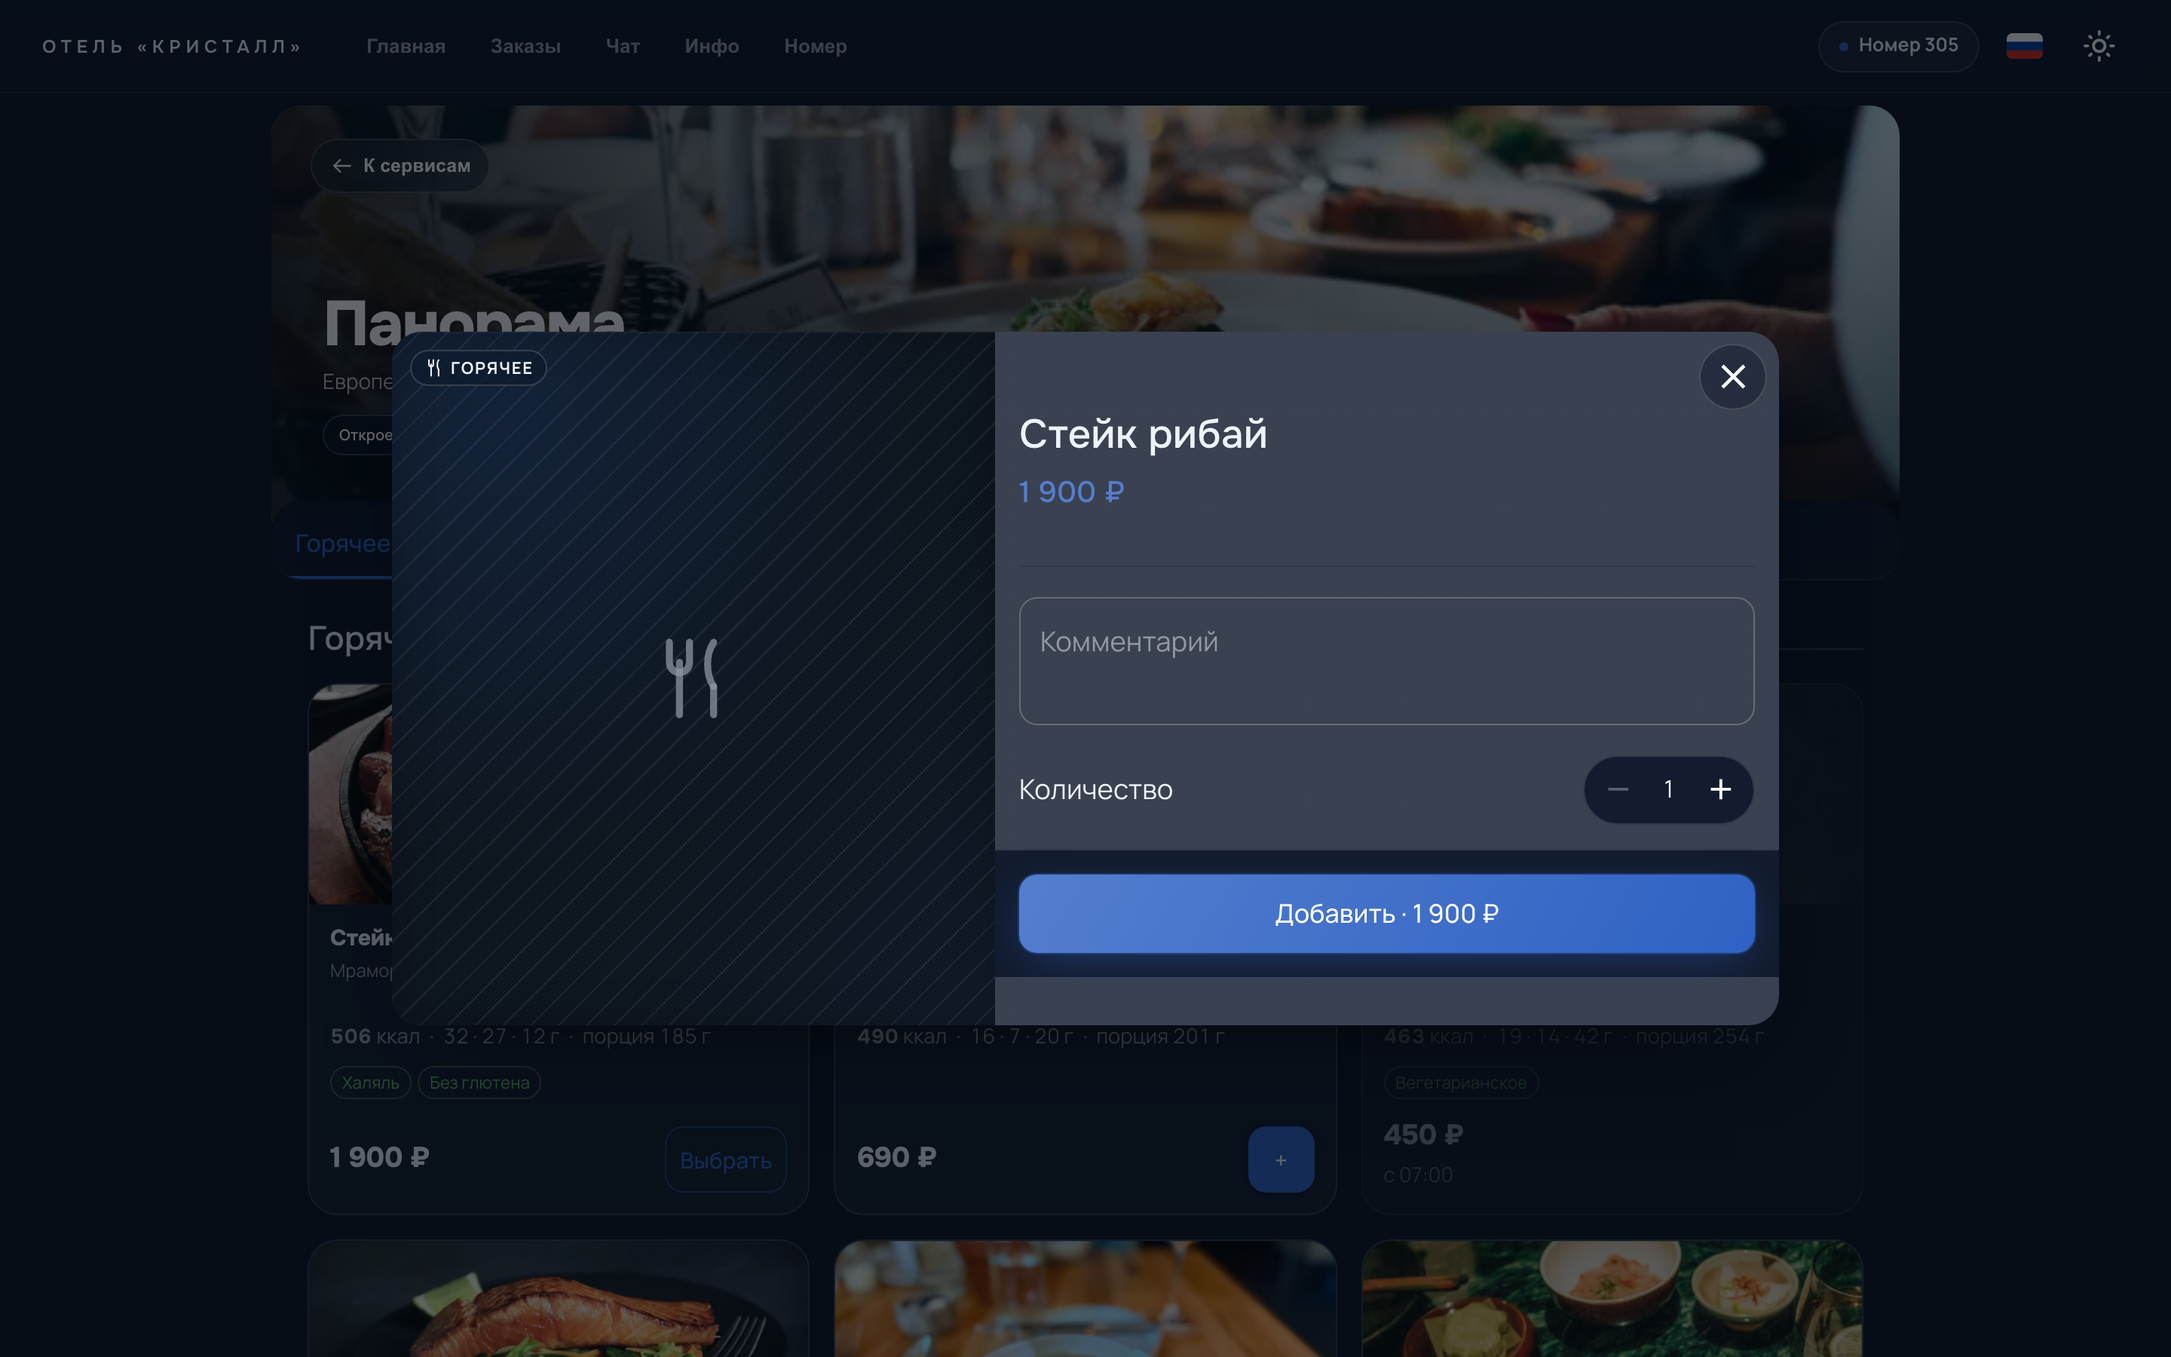
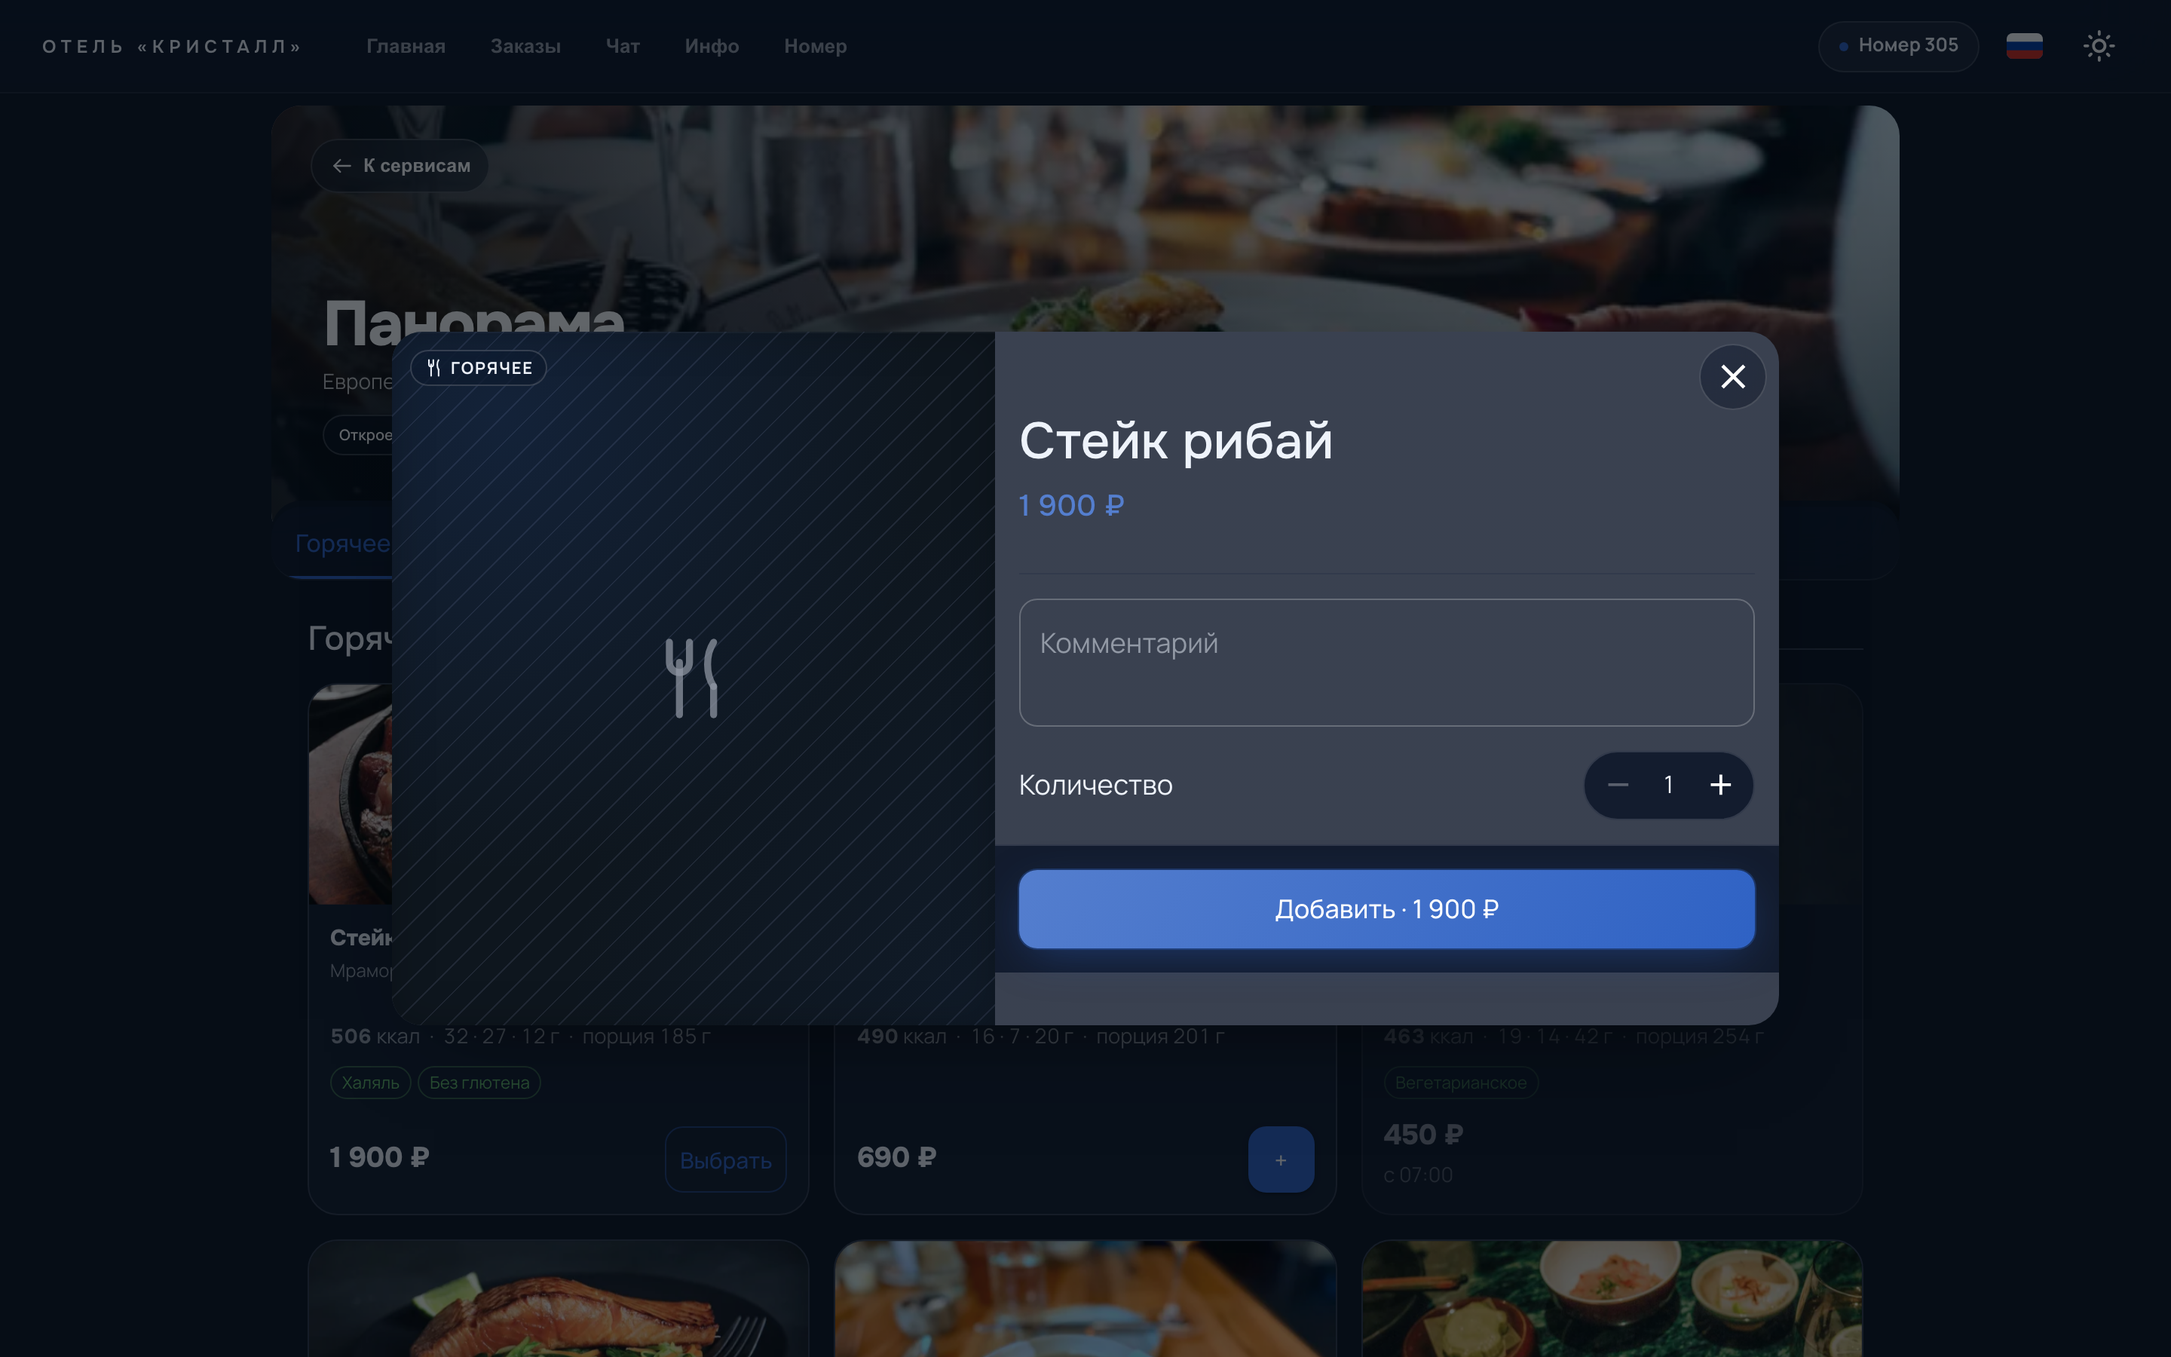
fix(guest): карточка позиции сведена с референсом попарно
Референс карточки блюда приехал в `docs/design/grms-concept/item-card-reference.png`
(десктоп и телефон рядом) — раньше по этому имени лежал концепт экрана номера.
Сверка велась ПОПАРНО: кадр референса рядом со снимком живой карточки, обе
ширины. Пары сохранены в `docs/design/g11-item-card/pairs/`.

## Что разошлось и устранено

  * КБЖУ ПЕРЕНОСИЛОСЬ. В референсе пять ячеек стоят одним рядом на обеих
    ширинах; у нас `auto-fit` ронял пятую вниз, и пищевая ценность читалась
    двумя этажами. Теперь колонок ровно столько, сколько ячеек, а подпись под
    числом мельче — иначе «Углеводы, г» не помещается в свою пятую часть.
  * ЛИНИИ СТОЯЛИ НЕ ТАМ. Разделитель в референсе разделяет БЛОКИ: под КБЖУ и
    перед группами модификаторов. Мы провели линию под каждой парой
    «название → значение», и короткий список превратился в таблицу вдвое выше.
    Построчные линии убраны, линия между КБЖУ и характеристиками добавлена.
  * НАЗВАНИЕ НЕ МЕНЯЛО КЕГЛЬ. В референсе оно соразмерно карточке: на телефоне
    27px, на десктопе 34px и ведёт колонку содержимого. У нас было 27px на обе
    ширины — десктопная карточка оставалась безголовой.
  * КАДР НА ТЕЛЕФОНЕ СЪЕДАЛ ТРЕТЬ ЭКРАНА (268px). В референсе это четверть
    высоты шторки; название с ценой начинались у нас ниже середины.
  * КАРТОЧКА ДОБАВКИ БЫЛА РЫХЛОЙ: вертикальные поля ужаты до референсных.

## Что расходится сознательно

  * ПАЛИТРА. Референс тёмно-золотой; у нас акцент отеля (синий на стенде),
[…]

diff --git a/frontend/src/guest/storefrontTokens.ts b/frontend/src/guest/storefrontTokens.ts
@@ -569,14 +569,26 @@ interface BrandRadius {
  * набор кусков, а не как один разворот.
  */
 export const itemCard = {
-  /** Между крупными частями: кадр → шапка → группы модификаторов → комментарий. */
-  section: 2.5,
+  /**
+   * Между крупными частями: кадр → шапка → группы модификаторов → комментарий.
+   *
+   * Плотнее, чем было: в референсе карточка умещает КБЖУ, характеристики,
+   * «подходит», прожарку и все три добавки над кнопкой, а у нас на том же
+   * экране второй добавки уже не было видно. Воздух остаётся, но его столько,
+   * сколько в утверждённом виде.
+   */
+  section: 2,
   /** Между блоками внутри части: название, цена, описание, КБЖУ. */
   block: 1.5,
   /** Внутри блока: строка КБЖУ, пилюли, подпись над списком. */
   tight: 0.75,
-  /** Высота кадра над содержимым (телефон / планшет). */
-  mediaHeight: { xs: 268, sm: 300 },
+  /**
+   * Высота кадра над содержимым (телефон / планшет).
+   *
+   * Четверть высоты шторки — как в референсе. Прежние 268px съедали треть
+   * экрана, и название с ценой начинались ниже середины.
+   */
+  mediaHeight: { xs: 224, sm: 268 },
   /** Кадр в боковой колонке десктопной карточки. */
   railMinHeight: { xs: 220, sm: 460 },
   /**
@@ -585,16 +597,29 @@ export const itemCard = {
    * приготовления» и «Вкус» разводили их по разным местам строки.
    */
   labelColumn: 190,
-  /** Ячейка КБЖУ: иконка, число, подпись — минимальная ширина колонки сетки. */
-  macroMinWidth: 92,
-  /** Знак у числа КБЖУ: мельче подписи, чтобы вести взгляд, а не спорить с ним. */
-  macroIcon: 15,
+  /**
+   * Знак у числа КБЖУ и кегль подписи под ним.
+   *
+   * Подпись мельче обычной: ячеек пять, и на телефоне они обязаны стоять ОДНИМ
+   * рядом — так в референсе. С прежним кеглем «Углеводы, г» не помещалось в
+   * свою пятую часть строки, ряд переносился, и КБЖУ читалось двумя этажами.
+   */
+  macroIcon: 14,
+  macroLabel: '0.6875rem',
   /** Метка категории поверх кадра: отступ от края и размер её значка. */
   categoryChipInset: 12,
   categoryChipIcon: 14,
+  /**
+   * Кегль названия позиции.
+   *
+   * Разный по ширине — так в референсе: на телефоне название соразмерно
+   * карточке, на десктопе оно ведёт колонку содержимого и заметно крупнее.
+   * Одно значение на обе ширины делало десктопную карточку безголовой.
+   */
+  titleSize: { xs: '1.6875rem', sm: '2.125rem' },
   /** Карточка добавки: внутренние поля и круглая кнопка справа. */
   addonPaddingX: 1.5,
-  addonPaddingY: 1.25,
+  addonPaddingY: 0.875,
   addonButton: 36,
   /** Минимальная ширина карточки добавки в сетке — ниже неё цена ломает строку. */
   addonMinWidth: 240,

diff --git a/frontend/src/guest/components/ItemMeta.tsx b/frontend/src/guest/components/ItemMeta.tsx
@@ -180,29 +180,24 @@ export function CharacteristicsBlock({ characteristics }: { characteristics?: It
         fontSize: '0.82rem',
       }}
     >
-      {characteristics.map((row, i) => {
-        /*
-          Разделитель — ЛИНИЯ МЕЖДУ СТРОКАМИ, а не рамка вокруг блока: строки
-          читаются парами «название → значение», и без паузы между парами
-          длинный список сливается в столбик слов. Последняя строка линии не
-          получает — снизу уже отступ блока.
-        */
-        const line = i < characteristics.length - 1;
-        const cell = {
-          py: itemCard.tight,
-          ...(line ? { borderBottom: 1, borderColor: 'divider' } : {}),
-        } as const;
-        return (
-          <Fragment key={i}>
-            <Box component="span" sx={{ ...cell, color: 'text.secondary' }}>
-              {row.name}
-            </Box>
-            <Box component="span" sx={{ ...cell, color: 'text.primary', fontWeight: 500 }}>
-              {row.value}
-            </Box>
-          </Fragment>
-        );
-      })}
+      {/*
+        ЛИНИЙ МЕЖДУ СТРОКАМИ НЕТ.
+
+        В референсе характеристики — плотный список пар, а разделитель стоит
+        между БЛОКАМИ: под КБЖУ и перед группами модификаторов. Линия под
+        каждой парой превращала короткий список в таблицу и растягивала его
+        вдвое.
+      */}
+      {characteristics.map((row, i) => (
+        <Fragment key={i}>
+          <Box component="span" sx={{ py: 0.35, color: 'text.secondary' }}>
+            {row.name}
+          </Box>
+          <Box component="span" sx={{ py: 0.35, color: 'text.primary', fontWeight: 500 }}>
+            {row.value}
+          </Box>
+        </Fragment>
+      ))}
     </Box>
   );
 }
@@ -268,9 +263,17 @@ export function NutritionBlock({
         <Box
           sx={{
             display: 'grid',
-            gridTemplateColumns: `repeat(auto-fit, minmax(${itemCard.macroMinWidth}px, 1fr))`,
-            columnGap: 1.5,
-            rowGap: itemCard.block,
+            /*
+              РОВНО СТОЛЬКО КОЛОНОК, СКОЛЬКО ЯЧЕЕК — и ни одного переноса.
+
+              В референсе КБЖУ стоит одним рядом и на десктопе, и на телефоне.
+              С `auto-fit` ряд переносился на узком экране: пятая ячейка
+              уезжала вниз, и пищевая ценность читалась двумя этажами. Колонки
+              равные, поэтому подписи стоят по одной сетке, а не по остатку
+              строки.
+            */
+            gridTemplateColumns: `repeat(${macros.length}, minmax(0, 1fr))`,
+            columnGap: 1,
           }}
         >
           {macros.map((macro) => (
@@ -295,7 +298,7 @@ export function NutritionBlock({
                   {macro.value}
                 </Box>
               </Stack>
-              <Box sx={{ color: 'text.secondary', fontSize: '0.72rem', lineHeight: 1.4 }}>
+              <Box sx={{ color: 'text.secondary', fontSize: itemCard.macroLabel, lineHeight: 1.3 }}>
                 {macro.label}
               </Box>
             </Box>

diff --git a/frontend/src/guest/components/ItemHeadline.tsx b/frontend/src/guest/components/ItemHeadline.tsx
@@ -1,5 +1,6 @@
 import Alert from '@mui/material/Alert';
 import Box from '@mui/material/Box';
+import Divider from '@mui/material/Divider';
 import Stack from '@mui/material/Stack';
 import Typography from '@mui/material/Typography';
 import { forwardRef } from 'react';
@@ -206,7 +207,7 @@ export const ItemHeadlineView = forwardRef<HTMLHeadingElement, ItemHeadlineViewP
                 табуляции (`tabIndex={-1}`), клавиатурой на него не попасть, и
                 отнимать у гостя признак фокуса здесь не у кого.
               */
-              sx={{ outline: 'none' }}
+              sx={{ outline: 'none', fontSize: itemCard.titleSize }}
             >
               {item.title}
             </Typography>
@@ -230,6 +231,10 @@ export const ItemHeadlineView = forwardRef<HTMLHeadingElement, ItemHeadlineViewP
               stays. Flags no longer render here — markers/characteristics/badges
               replace them; the catalog list card keeps its flag chips. */}
           <NutritionBlock nutrition={item.nutrition} description={item.description} />
+          {/* Линия между БЛОКАМИ, как в референсе: пищевая ценность отделена от
+              характеристик, характеристики от групп ниже (их линию рисует сама
+              группа). Внутри блоков линий нет. */}
+          {item.nutrition && item.characteristics?.length ? <Divider /> : null}
           <CharacteristicsBlock characteristics={item.characteristics} />
           <Stack direction="row" spacing={itemCard.tight} useFlexGap flexWrap="wrap" alignItems="center">
             <PrepMinutesChip minutes={item.prep_minutes} />
